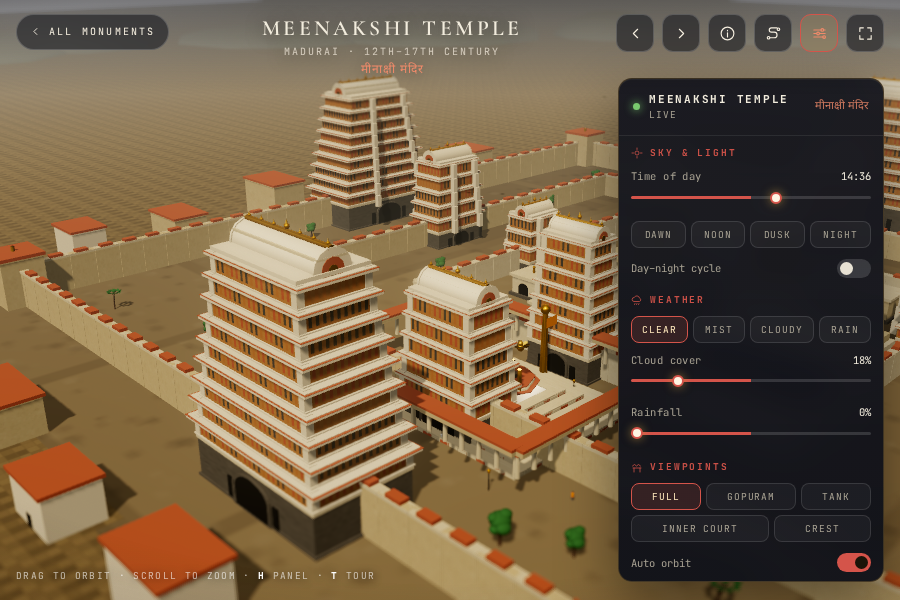
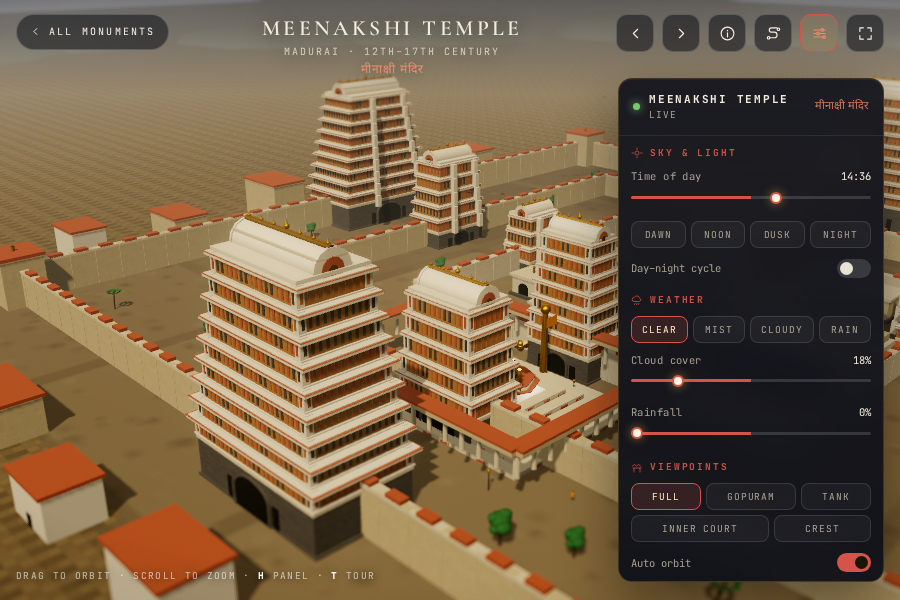
Meenakshi: the figures have depth
They were flat cards standing 80 mm off the wall, which read as a pattern of
rectangles — the reason fourteen tiered towers looked like apartment blocks.
Each figure is now a block 160 mm deep, so the wall carries relief that breaks
the light rather than a printed grid.

The render is better: the registers read as vertical bands of sculpture between
the white cornices. It is still a stylisation — a real gopuram is a mass of
individual figures and this is one block per position — but the towers now read
as tiered temple towers rather than as slabs.

diff --git a/monuments/meenakshi-temple.html b/monuments/meenakshi-temple.html
@@ -8,8 +8,8 @@
 <meta name="theme-color" content="#d4544a">
 <meta name="author" content="Dr Sohil Momin">
 <link rel="icon" href="../assets/img/favicon.svg" type="image/svg+xml">
-<link rel="stylesheet" href="../assets/css/fonts.css?v=ed94a8d33b">
-<link rel="stylesheet" href="../assets/css/monument.css?v=ed94a8d33b">
+<link rel="stylesheet" href="../assets/css/fonts.css?v=8a3644bd7f">
+<link rel="stylesheet" href="../assets/css/monument.css?v=8a3644bd7f">
 <meta property="og:type" content="website">
 <meta property="og:title" content="Meenakshi Temple — 3D miniature · INDIA">
 <meta property="og:description" content="Fourteen painted gopurams above the Vaigai at Madurai, a temple city dedicated to Meenakshi and Sundareswarar.">
@@ -31,11 +31,11 @@
 <div id="app"></div>
 <noscript><div class="noscript">This page renders Meenakshi Temple as a live 3D model and needs JavaScript and WebGL. You can still read about the monument on <a href="https://en.wikipedia.org/wiki/Meenakshi_Temple">Wikipedia</a>.</div></noscript>
 
-<script src="../assets/js/index-data.js?v=ed94a8d33b"></script>
+<script src="../assets/js/index-data.js?v=8a3644bd7f"></script>
 <script>window.MONUMENT_DATA = {"name": "Meenakshi Temple", "deva": "मीनाक्षी मंदिर", "place": "Madurai", "state": "Tamil Nadu", "era": "Pandya and Vijayanagara · 12th–17th c.", "period": "12th–17th century", "style": "Dravidian", "unesco": "—", "wikipedia": "https://en.wikipedia.org/wiki/Meenakshi_Temple", "history": ["The Meenakshi Sundareswarar temple stands on the southern bank of the Vaigai at Madurai, dedicated to Meenakshi, a form of Parvati, and her consort Sundareswarar, Shiva. Sangam literature describes the temple city; the earliest structures date from Pandya rule in the 12th and 13th centuries.", "Much of the present complex was rebuilt in the 14th century and enlarged under the Vijayanagara Empire and the Nayaks, who added the great gopurams, the pillared halls and the Golden Lotus tank. Fourteen gopurams rise above the streets, the tallest nearly 52 metres high, covered in thousands of painted stucco figures.", "Inside are the Hall of a Thousand Pillars, the Potramarai tank where pilgrims bathe, and shrines to both deities. The temple remains a working centre of Tamil religious life, with around 33,000 sculptures across the complex and daily processions through the streets of the old city."], "facts": [{"k": "Dedicated to", "v": "Meenakshi and Sundareswarar"}, {"k": "Early structures", "v": "12th–13th century, Pandya"}, {"k": "Expanded by", "v": "Vijayanagara and Nayak rulers"}, {"k": "Gopurams", "v": "Fourteen, the tallest about 52 m"}, {"k": "Inside", "v": "Hall of a Thousand Pillars, Golden Lotus tank"}, {"k": "City", "v": "Madurai, on the Vaigai"}], "links": [{"label": "Wikipedia", "href": "https://en.wikipedia.org/wiki/Meenakshi_Temple"}, {"label": "Tamil Nadu tourism", "href": "https://www.tamilnadutourism.tn.gov.in/"}, {"label": "Madurai district", "href": "https://madurai.nic.in/"}], "image": {"file": "Meenakshi Temple, Gopuram, Madurai, India.jpg", "artist": "Vyacheslav Argenberg", "license": "CC BY 4.0", "licenseUrl": "https://creativecommons.org/licenses/by/4.0", "page": "https://commons.wikimedia.org/wiki/File:Meenakshi_Temple,_Gopuram,_Madurai,_India.jpg", "src": "assets/img/meenakshi-temple.jpg"}};</script>
 <script type="module">
-  import { boot } from '../assets/js/monument-engine.js?v=ed94a8d33b';
-  import monument from '../assets/js/monuments/meenakshi-temple.js?v=ed94a8d33b';
+  import { boot } from '../assets/js/monument-engine.js?v=8a3644bd7f';
+  import monument from '../assets/js/monuments/meenakshi-temple.js?v=8a3644bd7f';
   boot(monument);
 </script>
 </body>

diff --git a/assets/js/monuments/meenakshi-temple.js b/assets/js/monuments/meenakshi-temple.js
@@ -128,7 +128,7 @@ export default {
           const k = FIG[(j * 3 + i * 2) % FIG.length];
           for (const side of [1, -1]) {
             const p = P(off, side * (d / 2 + 0.08));
-            add(k, plane(sL * 0.46, fh), p[0], fy, p[1], { ry: ry + (side > 0 ? 0 : PI) });
+            add(k, box(sL * 0.40, fh, 0.16), p[0], fy, p[1] + (side > 0 ? 0.06 : -0.06), { ry: ry + (side > 0 ? 0 : PI) });
           }
         }
         for (let j = 0; j < nS; j++) {
@@ -136,7 +136,7 @@ export default {
           const k = FIG[(j * 5 + i * 3 + 1) % FIG.length];
           for (const side of [1, -1]) {
             const p = P(side * (w / 2 + 0.08), off);
-            add(k, plane(sS * 0.46, fh), p[0], fy, p[1], { ry: ry + side * PI / 2 });
+            add(k, box(sS * 0.40, fh, 0.16), p[0] + side * 0.06, fy, p[1], { ry: ry + side * PI / 2 });
           }
         }
         /* moulded base, then the projecting cornice */
